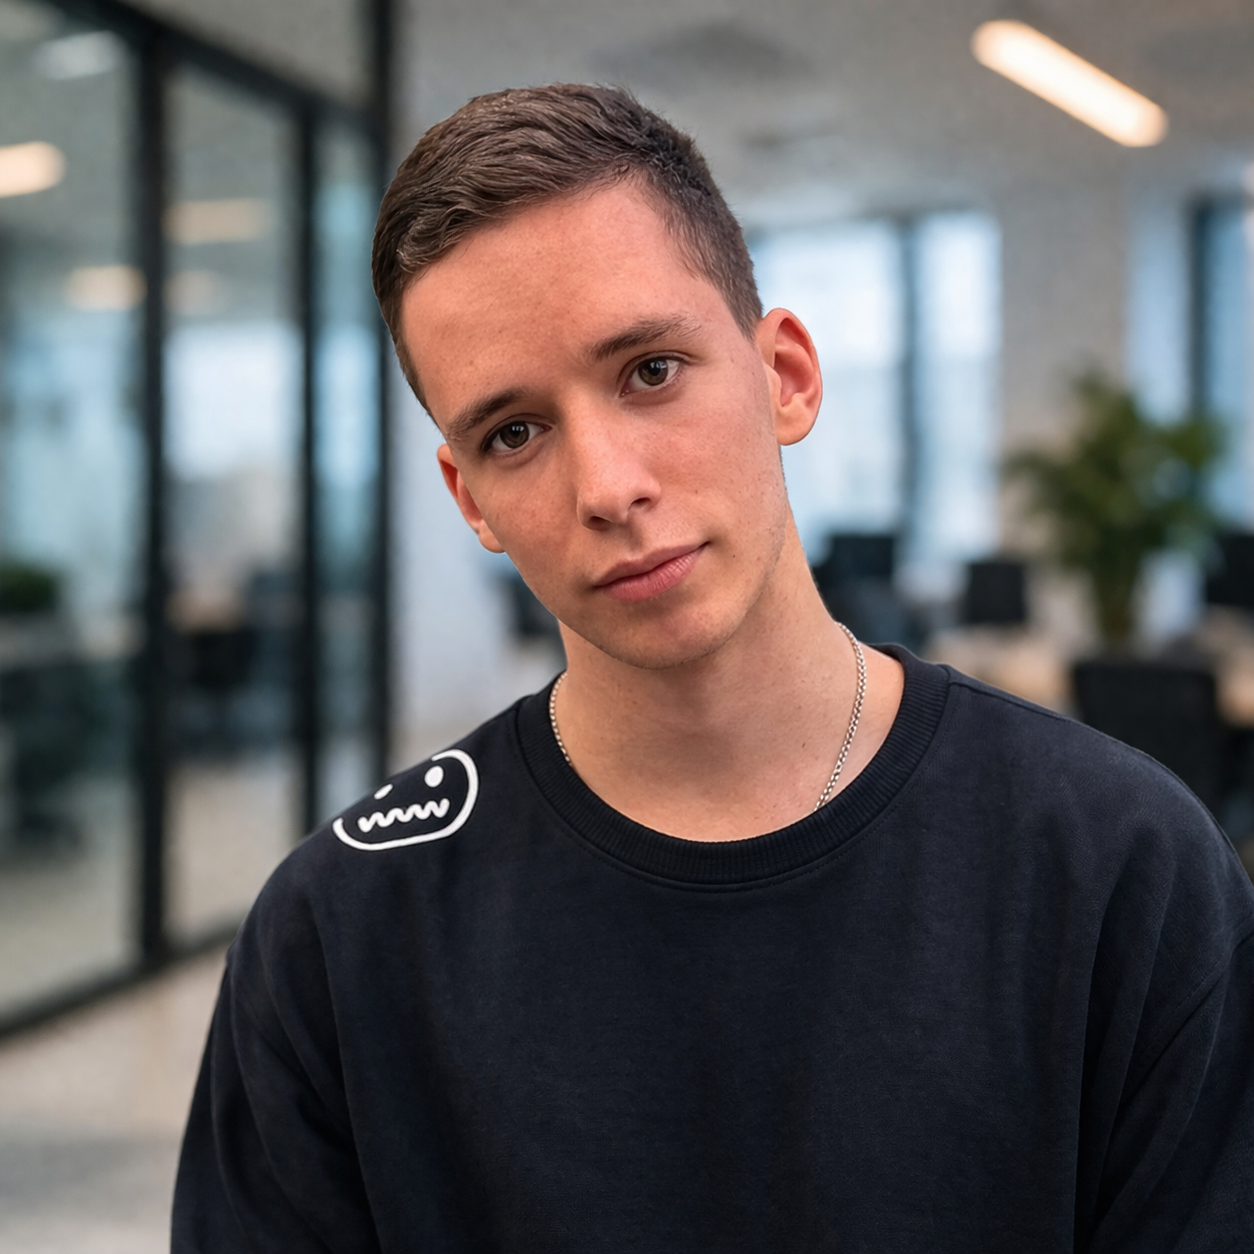
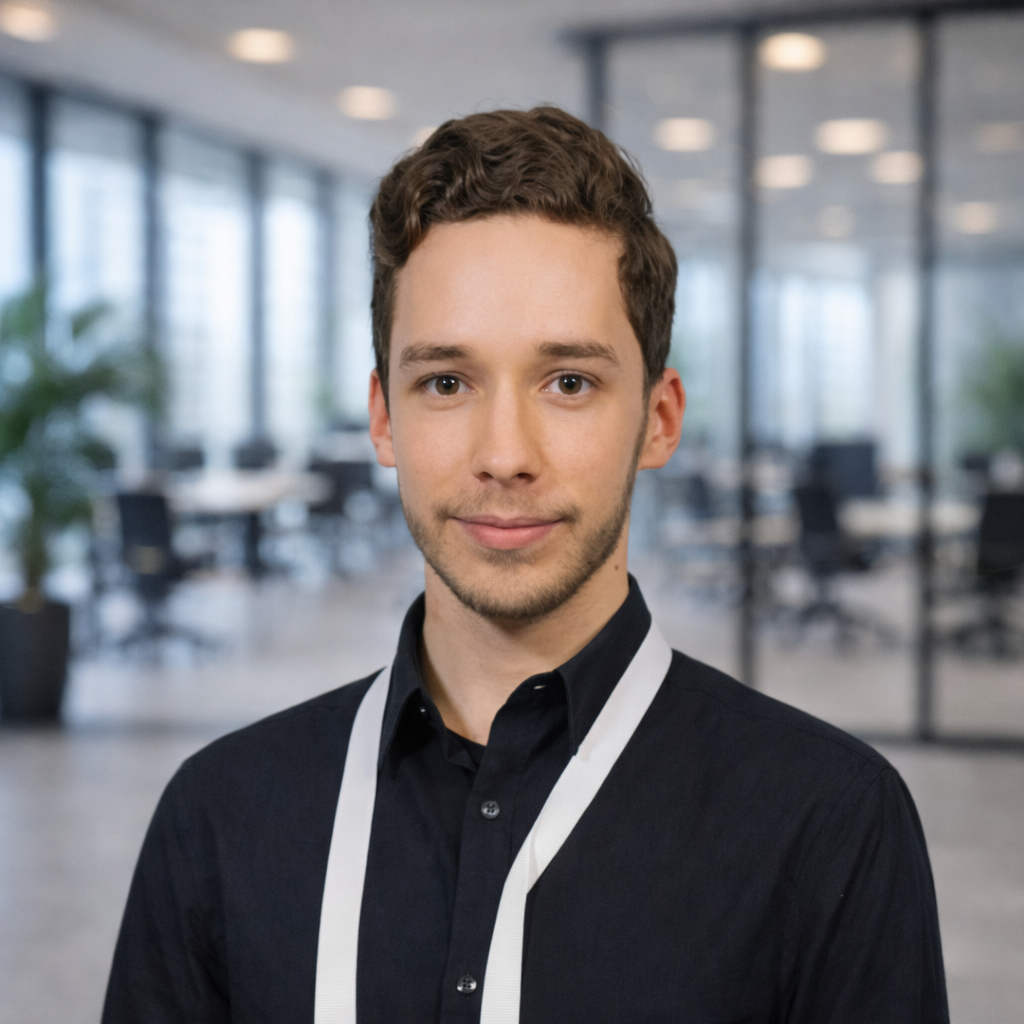
Update team portraits for Borodai and Voronin

diff --git a/aurora-department-site/src/App.tsx b/aurora-department-site/src/App.tsx
@@ -39,10 +39,10 @@ import cherednykPhoto from "./assets/project/команда/чередник 2.p
 import sabaniukPhoto from "./assets/project/команда/сабанюк.png";
 import adamovPhoto from "./assets/project/команда/adamov_upscaled.jpg";
 import horbunovPhoto from "./assets/project/команда/горбунов.png";
+import borodaiPhoto from "./assets/project/команда/Бородай Ірина.png";
 import beshliahaPhoto from "./assets/project/команда/БешлягаСергій.png";
 import daliukPhoto from "./assets/project/команда/далюк.png";
 import chipenkoPhoto from "./assets/project/команда/чипенко2.jpg";
-import hrinchenkoPhoto from "./assets/project/команда/грінченко.jpg";
 import kutniakPhoto from "./assets/project/команда/кутняк.png";
 import kovalenkoPhoto from "./assets/project/команда/коваленко.png";
 import koshelievPhoto from "./assets/project/команда/кошелєв.png";
@@ -1063,7 +1063,6 @@ const content: Record<Language, LocaleContent> = {
             { name: "Панов Дмитро", role: "Бізнес-аналітик" },
             { name: "Магльована Марія", role: "Аналітик" },
             { name: "Паламарчук Олександра", role: "Спеціалістка з ЕДО" },
-            { name: "Полюхович Ілона", role: "Бізнес-аналітик" },
           ],
         },
         {
@@ -1080,7 +1079,6 @@ const content: Record<Language, LocaleContent> = {
                 { name: "Кутняк Юлія", role: "Проєктна менеджерка" },
                 { name: "Адамов Володимир", role: "Проєктний менеджер" },
                 { name: "Кошелєв Ілля", role: "Проєктний менеджер" },
-                { name: "Грінченко Віталій", role: "Проєктний менеджер" },
               ],
             },
             {
@@ -1561,7 +1559,6 @@ const content: Record<Language, LocaleContent> = {
             { name: "Panov Dmytro", role: "Business Analyst" },
             { name: "Mahlovana Mariia", role: "Analyst" },
             { name: "Palamarchuk Oleksandra", role: "EDI Specialist" },
-            { name: "Poliukhovych Ilona", role: "Business Analyst" },
           ],
         },
         {
@@ -1578,7 +1575,6 @@ const content: Record<Language, LocaleContent> = {
                 { name: "Kutniak Yuliia", role: "Project Manager" },
                 { name: "Adamov Volodymyr", role: "Project Manager" },
                 { name: "Kosheliev Illia", role: "Project Manager" },
-                { name: "Hrinchenko Vitalii", role: "Project Manager" },
               ],
             },
             {
@@ -1772,6 +1768,14 @@ const getTeamRolePortrait = (title: string) => {
     };
   }
 
+  if (title.includes("Бородай") || title.includes("Borodai")) {
+    return {
+      photo: borodaiPhoto,
+      position: "center 17%",
+      scale: 0.88,
+    };
+  }
+
   if (title.includes("Кучеренко") || title.includes("Kucherenko")) {
     return {
       photo: kucherenkoPhoto,
@@ -1829,14 +1833,6 @@ const getTeamMemberPortrait = (name: string) => {
       photo: koshelievPhoto,
       position: "center 18%",
       scale: 1.16,
-    };
-  }
-
-  if (name.includes("Грінченко") || name.includes("Hrinchenko")) {
-    return {
-      photo: hrinchenkoPhoto,
-      position: "center 18%",
-      scale: 1.08,
     };
   }
 
@@ -2591,6 +2587,7 @@ function App() {
         <div className="role-grid">
           {primaryTeamRoles.map((role) => {
             const portrait = getTeamRolePortrait(role.title);
+            const isBorodaiRole = role.title.includes("Бородай") || role.title.includes("Borodai");
 
             return (
             <article
@@ -2598,7 +2595,7 @@ function App() {
               key={role.title}
             >
               <div className="role-card-head">
-                <div className={`role-avatar${portrait ? " role-avatar-photo" : ""}`} aria-hidden="true">
+                <div className={`role-avatar${portrait ? " role-avatar-photo" : ""}${isBorodaiRole ? " role-avatar-borodai" : ""}`} aria-hidden="true">
                   {portrait ? (
                     <button
                       type="button"

diff --git a/aurora-department-site/src/styles.css b/aurora-department-site/src/styles.css
@@ -4273,6 +4273,29 @@ main {
   transition: transform 180ms ease;
 }
 
+.role-avatar-borodai {
+  padding: 6px;
+  background:
+    radial-gradient(circle at 50% 50%, rgba(248, 250, 255, 0.92), rgba(241, 245, 252, 0.84));
+  border-color: rgba(116, 141, 188, 0.2);
+  box-shadow:
+    inset 0 1px 0 rgba(255, 255, 255, 0.38),
+    0 18px 34px -24px rgba(0, 0, 0, 0.16);
+}
+
+.role-avatar-borodai .role-avatar-button {
+  width: 100%;
+  height: 100%;
+  border-radius: inherit;
+  overflow: hidden;
+}
+
+.role-avatar-borodai .role-avatar-image-single {
+  width: 100%;
+  height: 100%;
+  object-fit: cover;
+}
+
 .role-member-avatar-photo {
   background: linear-gradient(180deg, rgba(227, 232, 241, 0.96), rgba(204, 213, 228, 0.92));
 }
